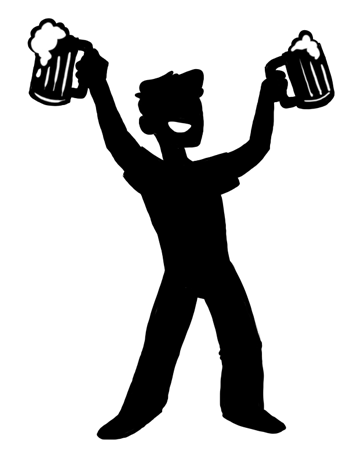
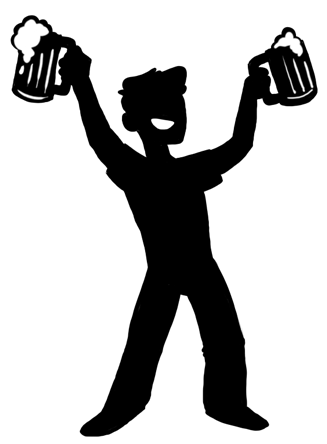
Added cropped artwork to assets

diff --git a/core/src/com/barrunner/view/LevelRenderer.java b/core/src/com/barrunner/view/LevelRenderer.java
@@ -57,14 +57,14 @@ public class LevelRenderer {
 		backgroundRegions[2]  = new TextureRegion(backgroundTextures[2]);
 		
 		foregroundTextures[0] = new Texture("props/light1.png");
-		foregroundTextures[1] = new Texture("props/pooltable1.png");
+		foregroundTextures[1] = new Texture("props/pool_table1.png");
 		foregroundTextures[2] = new Texture("silhouettes/double_fist.png");
 		foregroundRegions[0]  = new TextureRegion(foregroundTextures[0]);
 		foregroundRegions[1]  = new TextureRegion(foregroundTextures[1]); 
 		foregroundRegions[2]  = new TextureRegion(foregroundTextures[2]);
 		
-		propTextures[0] = new Texture("props/bar2.png");
-		propTextures[1] = new Texture("props/bar3.png");
+		propTextures[0] = new Texture("props/bar1.png");
+		propTextures[1] = new Texture("props/bar2.png");
 		propTextures[2] = new Texture("props/light1.png");
 		propRegions[0]  = new TextureRegion(propTextures[0]);
 		propRegions[1]  = new TextureRegion(propTextures[1]);		

diff --git a/core/src/com/barrunner/Global.java b/core/src/com/barrunner/Global.java
@@ -13,8 +13,6 @@ public class Global {
 	/* Floor size information */
 	public static final int FLOOR_WIDTH  = 64;
 	public static final int FLOOR_HEIGHT = 64;
-//	public static final int FLOOR_WIDTH  = 2048;
-//	public static final int FLOOR_HEIGHT = 64;
 	
 	/* Velocity information */
 	//Want this to be a variable not a constant in the future
